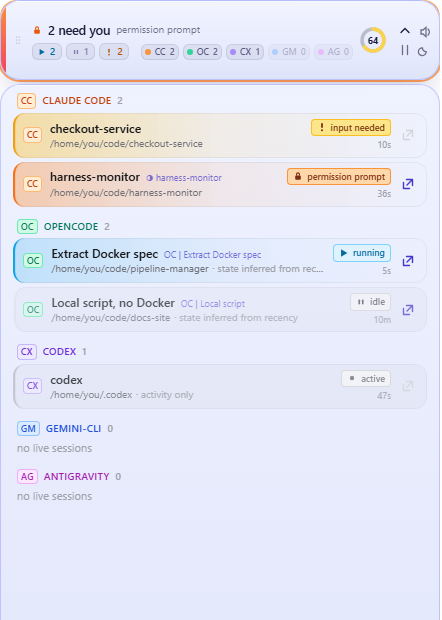
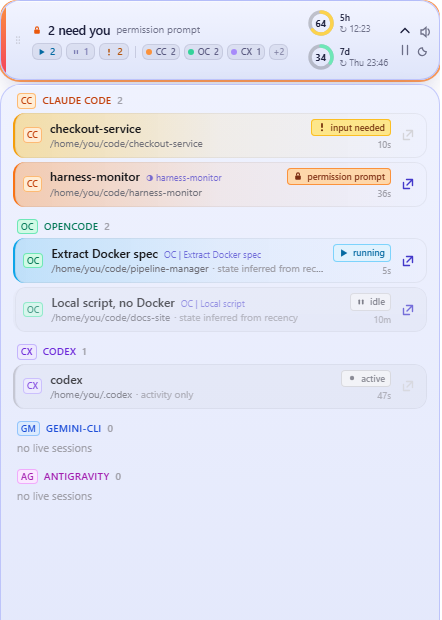
feat: show the 7-day window and both reset clock times
The 7-day percentage and both reset stamps were already parsed and shipped in
every snapshot; only the 5-hour ring was rendered, and its reset time had been
demoted to a tooltip when the pill was compacted.

Both windows now show as rings with the wall-clock reset time under the label -
a countdown says how long, a clock says when you can start again, and the second
is what you plan around. The 7-day stamp includes the weekday, since a bare
time is ambiguous for a reset days out.

Making room: the two windows side by side needed ~190px, which a 440px pill
cannot spare, so they stack; and harnesses with no live sessions collapse into
a "+N" chip rather than spending width on five zeroes.

Changed region(s): [[0.6176, 0.0, 0.8824, 0.1226], [0.3235, 0.0613, 0.5, 0.0919], [0.5294, 0.0613, 0.5882, 0.0919]]

diff --git a/src/components/Quota.tsx b/src/components/Quota.tsx
@@ -1,34 +1,36 @@
 import { QUOTA_STALE_MS, type QuotaSnapshot } from "../types";
-import { duration, untilReset } from "../lib/format";
+import { clockTime, dayAndTime, duration, untilReset } from "../lib/format";
 
 /**
- * Claude plan window as a ring: a dial reads as a fraction at a glance, where
- * a number alone has to be compared against a limit you have to remember.
+ * Both plan windows, each as a ring plus the wall-clock time it resets.
  *
- * The percentage is mirrored from the harness, never derived - and when the
- * reading goes stale it greys out with its age rather than being extrapolated.
+ * The percentages are mirrored from the harness and never derived from token
+ * counts. When the reading goes stale the whole block greys out and says how
+ * old it is, rather than being extrapolated forward.
  */
 export function Quota({
   quota,
   now,
   tone,
-  withLabel,
+  stack,
   pending,
 }: {
   quota: QuotaSnapshot | null;
   now: number;
   tone: { title: string; sub: string };
-  /** Spell out what the ring measures - the strip has no headline to lean on. */
-  withLabel?: boolean;
+  /** Vertical strip: stack the two windows instead of sitting them side by side. */
+  stack?: boolean;
   /** No snapshot has arrived yet - not the same as "no quota exists". */
   pending?: boolean;
 }) {
-  // Three different states, and conflating them is what made a working
-  // install look broken: no snapshot yet (starting up), a snapshot with no
-  // quota reading at all (nothing has reported one), and a real number.
+  // Three distinct states; conflating the first two made a working install
+  // look broken.
   if (pending) {
     return (
-      <span className={`text-[9px] tabular-nums ${tone.sub}`} title="Waiting for first snapshot">
+      <span
+        className={`text-[9px] tabular-nums ${tone.sub}`}
+        title="Waiting for the first snapshot"
+      >
         --
       </span>
     );
@@ -38,9 +40,10 @@ export function Quota({
       <span
         className={`max-w-[52px] text-[9px] leading-tight ${tone.sub}`}
         title={
-          "No plan-window reading yet. Both sources are pushed by a live Claude Code process: " +
-          "the statusline shim (installer/install-statusline.sh --install) on every render, or a " +
-          "Stop hook writing ~/.claude/llm-analytics-usage/*.jsonl at the end of each turn."
+          "No plan-window reading yet. Both sources are pushed by a live Claude Code " +
+          "process: the statusline shim (installer/install-statusline.sh --install) on " +
+          "every render, or a Stop hook writing ~/.claude/llm-analytics-usage/*.jsonl at " +
+          "the end of each turn."
         }
       >
         no quota yet
@@ -49,8 +52,60 @@ export function Quota({
   }
 
   const stale = now - quota.at > QUOTA_STALE_MS;
-  const pct = Math.min(100, Math.max(0, quota.five_hour_pct));
-  const resets = untilReset(quota.five_hour_resets_at, now);
+
+  return (
+    <div
+      data-tauri-drag-region
+      className={`flex gap-x-2.5 gap-y-1 ${stack ? "flex-col" : "items-center"} ${
+        stale ? "opacity-50" : ""
+      }`}
+    >
+      <Window
+        label="5h"
+        pct={quota.five_hour_pct}
+        resetsAt={clockTime(quota.five_hour_resets_at)}
+        left={untilReset(quota.five_hour_resets_at, now)}
+        tone={tone}
+        stale={stale}
+        staleAge={stale ? duration(quota.at, now) : null}
+        source={quota.source}
+      />
+      {quota.seven_day_pct !== null && (
+        <Window
+          label="7d"
+          pct={quota.seven_day_pct}
+          resetsAt={dayAndTime(quota.seven_day_resets_at)}
+          left={untilReset(quota.seven_day_resets_at, now)}
+          tone={tone}
+          stale={stale}
+          staleAge={stale ? duration(quota.at, now) : null}
+          source={quota.source}
+        />
+      )}
+    </div>
+  );
+}
+
+function Window({
+  label,
+  pct: raw,
+  resetsAt,
+  left,
+  tone,
+  stale,
+  staleAge,
+  source,
+}: {
+  label: string;
+  pct: number;
+  resetsAt: string | null;
+  left: string | null;
+  tone: { title: string; sub: string };
+  stale: boolean;
+  staleAge: string | null;
+  source: string;
+}) {
+  const pct = Math.min(100, Math.max(0, raw));
   const stroke = stale
     ? "stroke-zinc-400/70"
     : pct > 85
@@ -58,48 +113,49 @@ export function Quota({
       : pct > 60
         ? "stroke-amber-300"
         : "stroke-emerald-300";
-
   const r = 11;
   const circumference = 2 * Math.PI * r;
 
-  const ring = (
-    <div
-      data-tauri-drag-region
-      title={
-        stale
-          ? `5h window: ${pct.toFixed(0)}% used as of ${duration(quota.at, now)} ago (source went quiet)`
-          : `5h window: ${pct.toFixed(0)}% used${resets ? `, ${resets} left` : ""} (${quota.source})`
-      }
-      className={`relative flex h-[30px] w-[30px] items-center justify-center ${stale ? "opacity-50" : ""}`}
-    >
-      <svg viewBox="0 0 30 30" className="absolute inset-0 -rotate-90">
-        <circle cx="15" cy="15" r={r} className="fill-none stroke-current opacity-20" strokeWidth="3.5" />
-        <circle
-          cx="15"
-          cy="15"
-          r={r}
-          className={`fill-none ${stroke}`}
-          strokeWidth="3.5"
-          strokeLinecap="round"
-          strokeDasharray={`${(circumference * pct) / 100} ${circumference}`}
-        />
-      </svg>
-      <span className={`text-[9px] font-bold tabular-nums leading-none ${tone.title}`}>
-        {pct.toFixed(0)}
-      </span>
-    </div>
-  );
-
-  if (!withLabel) return ring;
-
   return (
-    <div data-tauri-drag-region className="flex items-center gap-1">
-      {ring}
-      <span className={`text-[9px] leading-tight ${tone.sub}`}>
-        5h
-        <br />
-        used
-      </span>
+    <div
+      className="flex shrink-0 items-center gap-1"
+      title={
+        staleAge
+          ? `${label} window: ${pct.toFixed(0)}% used as of ${staleAge} ago — the source went quiet`
+          : `${label} window: ${pct.toFixed(0)}% used${left ? `, ${left} left` : ""} (from ${source})`
+      }
+    >
+      <div className="relative flex h-[30px] w-[30px] shrink-0 items-center justify-center">
+        <svg viewBox="0 0 30 30" className="absolute inset-0 -rotate-90">
+          <circle
+            cx="15"
+            cy="15"
+            r={r}
+            className="fill-none stroke-current opacity-20"
+            strokeWidth="3.5"
+          />
+          <circle
+            cx="15"
+            cy="15"
+            r={r}
+            className={`fill-none ${stroke}`}
+            strokeWidth="3.5"
+            strokeLinecap="round"
+            strokeDasharray={`${(circumference * pct) / 100} ${circumference}`}
+          />
+        </svg>
+        <span className={`text-[9px] font-bold leading-none tabular-nums ${tone.title}`}>
+          {pct.toFixed(0)}
+        </span>
+      </div>
+      <div className="flex flex-col leading-tight">
+        <span className={`text-[9px] font-semibold ${tone.title}`}>{label}</span>
+        {resetsAt && (
+          <span className={`whitespace-nowrap text-[9px] tabular-nums ${tone.sub}`}>
+            ↻ {resetsAt}
+          </span>
+        )}
+      </div>
     </div>
   );
 }

diff --git a/src/components/HarnessChips.tsx b/src/components/HarnessChips.tsx
@@ -30,14 +30,21 @@ export function HarnessChips({
     counts.set(session.key.harness, entry);
   }
 
+  const entries = [...counts.entries()];
+  // Horizontally there is no room for five chips beside the counts and the
+  // quota, and a harness with no sessions is the least useful of them - so the
+  // empty ones collapse into a single "+N" that still names them on hover.
+  const shown = vertical ? entries : entries.filter(([, c]) => c.total > 0);
+  const hidden = vertical ? [] : entries.filter(([, c]) => c.total === 0);
+
   return (
     <div
       data-tauri-drag-region
       // Vertical strip: two columns, so five harnesses do not turn the widget
       // into a ladder.
-      className={vertical ? "grid grid-cols-2 gap-1" : "flex items-center gap-1"}
+      className={vertical ? "grid grid-cols-2 gap-1" : "flex min-w-0 items-center gap-1"}
     >
-      {[...counts.entries()].map(([harness, { total, attention }]) => (
+      {shown.map(([harness, { total, attention }]) => (
         <span
           key={harness}
           data-tauri-drag-region
@@ -57,6 +64,15 @@ export function HarnessChips({
           {total}
         </span>
       ))}
+      {hidden.length > 0 && (
+        <span
+          data-tauri-drag-region
+          title={`Detected but idle: ${hidden.map(([h]) => HARNESS_LABEL[h]).join(", ")}`}
+          className="shrink-0 rounded-md bg-indigo-950/[0.06] px-1 py-px text-[9px] font-semibold tabular-nums text-indigo-950/45 ring-1 ring-inset ring-indigo-950/10 dark:bg-white/[0.07] dark:text-white/45 dark:ring-white/10"
+        >
+          +{hidden.length}
+        </span>
+      )}
     </div>
   );
 }

diff --git a/src/lib/format.ts b/src/lib/format.ts
@@ -15,6 +15,34 @@ export function duration(sinceMs: number, now: number): string {
   return `${hours}h ${mins % 60}m`;
 }
 
+/**
+ * Wall-clock time of a reset, in the viewer's own timezone: "13:00".
+ *
+ * A countdown answers "how long", a clock answers "when I can start again",
+ * and the second one is what you plan around.
+ */
+export function clockTime(iso: string | null): string | null {
+  if (!iso) return null;
+  const at = new Date(iso);
+  if (Number.isNaN(at.getTime())) return null;
+  return at.toLocaleTimeString(undefined, { hour: "2-digit", minute: "2-digit", hour12: false });
+}
+
+/** Same, plus the weekday - for a reset that is days out, the time alone is ambiguous. */
+export function dayAndTime(iso: string | null): string | null {
+  if (!iso) return null;
+  const at = new Date(iso);
+  if (Number.isNaN(at.getTime())) return null;
+  const sameDay = at.toDateString() === new Date().toDateString();
+  const time = at.toLocaleTimeString(undefined, {
+    hour: "2-digit",
+    minute: "2-digit",
+    hour12: false,
+  });
+  if (sameDay) return time;
+  return `${at.toLocaleDateString(undefined, { weekday: "short" })} ${time}`;
+}
+
 /** Time until an absolute ISO reset stamp. Never extrapolated past it. */
 export function untilReset(iso: string | null, now: number): string | null {
   if (!iso) return null;

diff --git a/src/components/Pill.tsx b/src/components/Pill.tsx
@@ -123,13 +123,7 @@ export function Pill() {
               {headline}
             </span>
           </div>
-          <Quota
-            quota={snapshot?.quota ?? null}
-            now={now}
-            tone={surface}
-            withLabel
-            pending={!snapshot}
-          />
+          <Quota quota={snapshot?.quota ?? null} now={now} tone={surface} stack pending={!snapshot} />
         </div>
 
         <StatStrip sessions={sessions} vertical />
@@ -170,7 +164,7 @@ export function Pill() {
         </div>
 
         {/* One row: counts first (the answer), harnesses second (the where). */}
-        <div data-tauri-drag-region className="flex items-center gap-1.5">
+        <div data-tauri-drag-region className="flex min-w-0 items-center gap-1.5 overflow-hidden">
           <StatStrip sessions={sessions} />
           <span
             data-tauri-drag-region
@@ -181,7 +175,7 @@ export function Pill() {
         </div>
       </div>
 
-      <Quota quota={snapshot?.quota ?? null} now={now} tone={surface} pending={!snapshot} />
+      <Quota quota={snapshot?.quota ?? null} now={now} tone={surface} stack pending={!snapshot} />
 
       {/* Four icons in 2x2: a single column would not fit 80px of height. */}
       <div className="grid grid-cols-2 gap-px">{controls}</div>

diff --git a/src/lib/mock.ts b/src/lib/mock.ts
@@ -15,7 +15,7 @@ export const MOCK_SNAPSHOT: Snapshot = {
     five_hour_pct: 64,
     five_hour_resets_at: new Date(Date.now() + 97 * 60_000).toISOString(),
     seven_day_pct: 34,
-    seven_day_resets_at: null,
+    seven_day_resets_at: new Date(Date.now() + 61 * 3600_000).toISOString(),
   },
   reseed: false,
   sessions: [

diff --git a/README.md b/README.md
@@ -101,8 +101,15 @@ something is waiting on you, and the row tints in the list.
 Next to the headline sit three counts, always in the same order so they can be
 read by position: **running / idle / waiting for you**. Zeroes stay visible but
 dim - "nothing is waiting" is information, and a vanishing chip would shift the
-other two. After a divider come the per-harness counts, and on the right a ring
-showing the 5-hour plan window.
+other two. After a divider come the per-harness counts; harnesses that are
+installed but idle collapse into a `+N` chip that still names them on hover.
+
+On the right sit **both Claude plan windows** - 5-hour and 7-day - each as a
+ring with the percentage inside and, under the label, the wall-clock time it
+resets (`↻ 12:22`, or `↻ Thu 23:45` when the reset is days out). A countdown
+answers "how long"; a clock answers "when can I start again", which is the
+thing you plan around. Hovering gives both, plus which source the reading came
+from.
 
 Per-session state is carried three ways, so colour is never the only channel:
 

diff --git a/CHANGELOG.md b/CHANGELOG.md
@@ -6,6 +6,15 @@ Notable changes to HarnessMonitor. Format follows
 
 ## [Unreleased]
 
+### Added
+
+- The **7-day plan window** alongside the 5-hour one, both as rings, and each
+  labelled with the **wall-clock time it resets** rather than only a countdown.
+  The data was already being collected; only the 5-hour figure was shown.
+- Harnesses that are detected but have no live sessions collapse into a `+N`
+  chip in the horizontal pill, which frees the width the second quota window
+  needed. Hovering names them.
+
 ## [0.1.1] - 2026-09-07
 
 ### Added
